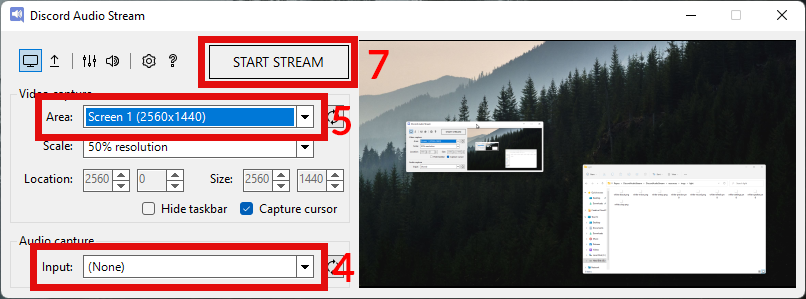
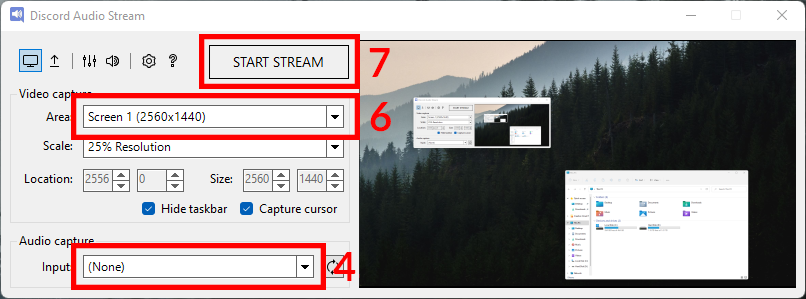
Update readme

diff --git a/README.md b/README.md
@@ -79,9 +79,9 @@ The following steps depend on what you want to do.
 
 4. In the *Audio capture input* dropdown, select the (previously unused) audio device that you have chosen in step 3.
 
-5. In the *Video capture area* dropdown, select the screen you want to share.
+5. (Optional) In the upcoming steps we will create a new window with the same size as the screen you are sharing. In order to make its size more manageable, you may want to change the *Video capture scale* dropdown to 50%.
 
-6. (Optional) The next step will create a new window with the same size as the screen you are sharing. In order to make its size more manageable, you may want to change the *Video capture scale* dropdown to 50%.
+6. In the *Video capture area* dropdown, select the screen you want to share.
 
 7. Click the *Start Stream* button. This will create a new window. You should now be able to hear the audio from the programs you stopped hearing in step 3.
 
